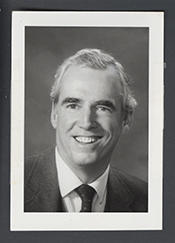
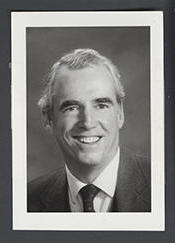
Orientation fixes 105th-111th

diff --git a/constrain_images.py b/constrain_images.py
@@ -136,7 +136,7 @@ def preprocess_gifs():
 
 
 def authorize_facial_detection():
-    """ Ask Azure Face API which way the photo is facing. """
+    """ Load config and setup Azure Face API. """
     if not os.path.isfile("config/facial_recognition.json"):
         return None
 
